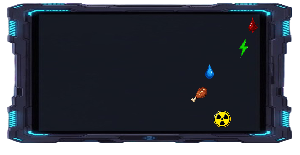
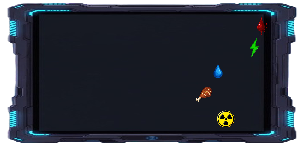
+

diff --git a/style.css b/style.css
@@ -146,14 +146,14 @@ body {
   font-family: "Courier New", monospace;
   z-index: 50;
   background: url("/led.png") center no-repeat;
-  width: 280px;
+  width: 350px;
   height: 180px;
 }
 
 #stats .health {
   position: absolute;
   top: 15%;
-  left: 11%;
+  left: 18%;
   color: #ff0000;
   text-shadow:
     0 0 5px #ff0000,
@@ -165,7 +165,7 @@ body {
 #stats .energy {
   position: absolute;
   top: 28%;
-  left: 11%;
+  left: 19%;
   color: #00ff00;
   text-shadow:
     0 0 5px #00ff00,
@@ -177,7 +177,7 @@ body {
 #stats .food {
   position: absolute;
   top: 54%;
-  left: 11%;
+  left: 19%;
   color: #ffff00;
   text-shadow:
     0 0 5px #ffff00,
@@ -189,7 +189,7 @@ body {
 #stats .water {
   position: absolute;
   top: 41%;
-  left: 11%;
+  left: 19%;
   color: #0000ff;
   text-shadow:
     0 0 5px #0000ff,
@@ -201,7 +201,7 @@ body {
 #stats .armor {
   position: absolute;
   top: 67%;
-  left: 11%;
+  left: 19%;
   color: #ff4500;
   text-shadow:
     0 0 5px #ff4500,
@@ -303,6 +303,7 @@ body {
 .upgrade-btn {
   font-size: 14px;
   color: white;
+  font-weight: bold;
   background: none;
   border: none;
   box-shadow: none;
@@ -322,10 +323,32 @@ body {
 
   #stats {
     font-size: 16px;
+    left: -8%;
   }
 
   #coords {
     font-size: 14px;
+    right: 1.5%;
+  }
+
+  #onlineCount {
+    position: absolute;
+    top: 45px;
+    right: 23%;
+    color: #ffffff;
+    font-size: 12px;
+    font-family: "Courier New", monospace;
+    text-shadow:
+      0 0 5px #00ffff,
+      0 0 10px #00ffff,
+      0 0 15px #ff00ff;
+    animation: flicker 1.5s infinite alternate;
+    z-index: 50;
+
+    /* Главное волшебство ↓ */
+    writing-mode: vertical-rl; /* вертикально, сверху вниз */
+    text-orientation: mixed; /* или upright, если хочешь все символы прямо */
+    text-align: left; /* теперь это выравнивание по "низу" */
   }
 
   .auth-box {

diff --git a/buttons.css b/buttons.css
@@ -60,11 +60,15 @@
 @keyframes attackFlicker {
   0% {
     border-color: #ff0000;
-    box-shadow: 0 0 10px rgba(255, 0, 0, 0.7), 0 0 20px rgba(255, 0, 0, 0.5);
+    box-shadow:
+      0 0 10px rgba(255, 0, 0, 0.7),
+      0 0 20px rgba(255, 0, 0, 0.5);
   }
   100% {
     border-color: #ff4444;
-    box-shadow: 0 0 20px rgba(255, 0, 0, 1), 0 0 30px rgba(255, 0, 0, 0.8);
+    box-shadow:
+      0 0 20px rgba(255, 0, 0, 1),
+      0 0 30px rgba(255, 0, 0, 0.8);
   }
 }
 
@@ -86,8 +90,8 @@
 
   #chatBtn {
     position: absolute;
-    top: 8.5%;
-    left: 87%;
+    top: 6.5%;
+    left:80%;
     width: 12%;
     height: 8%;
   }
